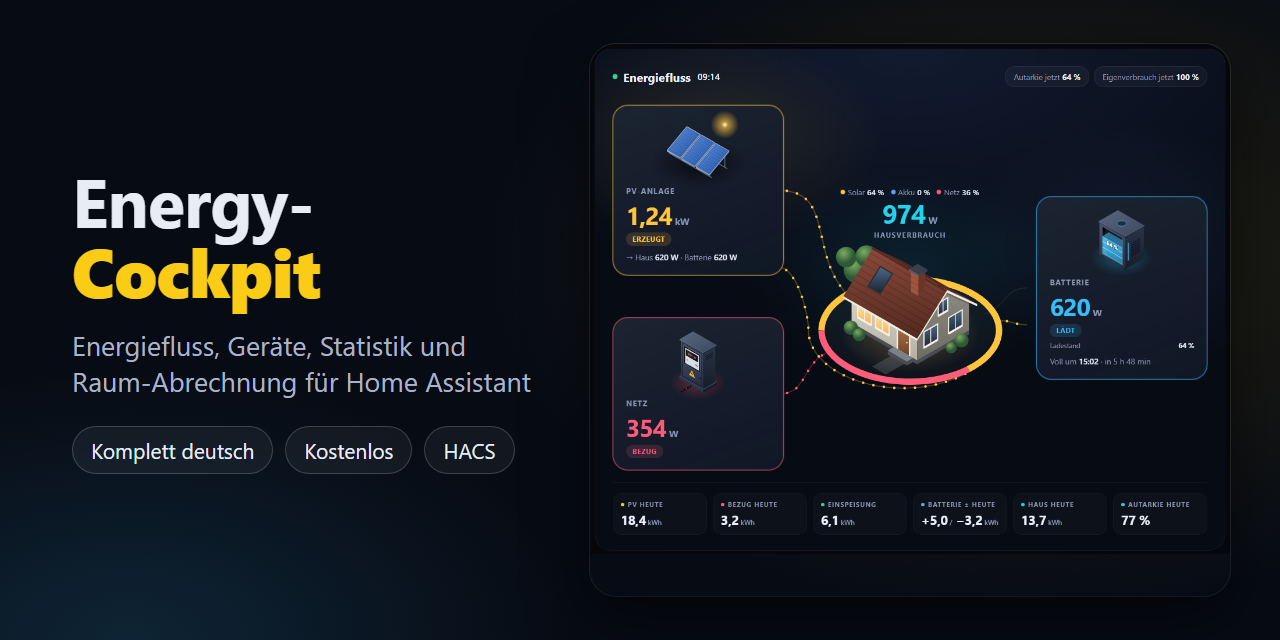
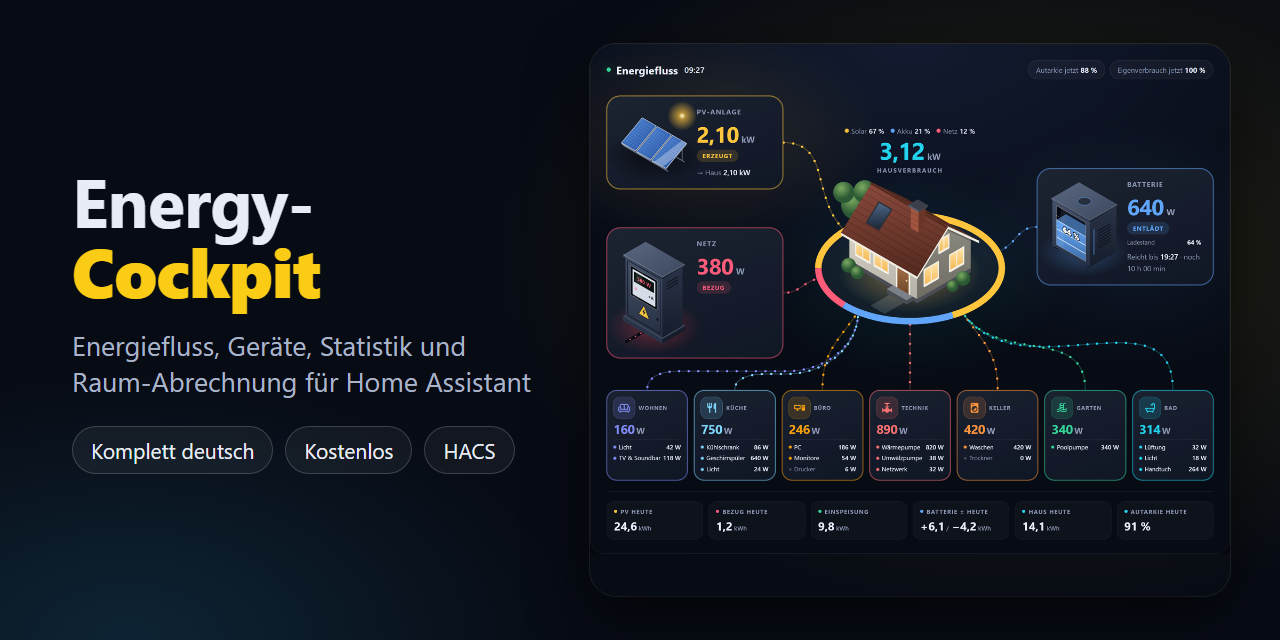
README: jeder Raum und jedes Geraet im Mittelpunkt, Titelbild mit ganzem Haus
Neuer Abschnitt und neue Bilder mit sieben Raeumen und ihren Geraeten.

diff --git a/test/flow-3d.html b/test/flow-3d.html
@@ -8,7 +8,9 @@
 const S=(v,u)=>({state:String(v),attributes:{unit_of_measurement:u||'W'},last_updated:'x'});
 const hassFor=(o)=>({states:Object.assign({'sensor.pv':S(1240),'sensor.grid':S(354),'sensor.bat':S(620),'sensor.bat2':S(-150),'sensor.soc':S(64,'%'),'sensor.soc2':S(22,'%'),'sensor.ch':S(96),'sensor.dis':S(0),'sensor.out':S(0),'sensor.s0':S(4,'%'),'sensor.s1':S(22,'%'),'sensor.s1w':S(400),'sensor.s2w':S(467),'sensor.s3w':S(213),'sensor.s4w':S(160),'sensor.wp':S(600),'sensor.pv2':S(300)},o||{}),language:'de',locale:{language:'de'},config:{currency:'EUR'},callApi:async()=>[],callWS:async()=>({})});
 const base={pv:{entity:'sensor.pv'},grid:{entity:'sensor.grid'},battery:{power:'sensor.bat',soc:'sensor.soc',capacity_kwh:10},style:'3d'};
+const HAUS={"sensor.pv": 2100, "sensor.grid": 380, "sensor.bat": -640, "sensor.soc": 64, "sensor.h0_0": 42, "sensor.h0_1": 118, "sensor.h1_0": 86, "sensor.h1_1": 640, "sensor.h1_2": 24, "sensor.h2_0": 186, "sensor.h2_1": 54, "sensor.h2_2": 6, "sensor.h3_0": 820, "sensor.h3_1": 38, "sensor.h3_2": 32, "sensor.h4_0": 420, "sensor.h4_1": 0, "sensor.h5_0": 340, "sensor.h6_0": 32, "sensor.h6_1": 18, "sensor.h6_2": 264};
 const cases={
+  haus:{...base,hide_rest:true,consumer_groups:[{"name": "Wohnen", "icon": "mdi:sofa-outline", "color": "#818cf8", "items": [{"name": "Licht", "entity": "sensor.h0_0"}, {"name": "TV & Soundbar", "entity": "sensor.h0_1"}]}, {"name": "Küche", "icon": "mdi:silverware-fork-knife", "color": "#7dd3fc", "items": [{"name": "Kühlschrank", "entity": "sensor.h1_0"}, {"name": "Geschirrspüler", "entity": "sensor.h1_1"}, {"name": "Licht", "entity": "sensor.h1_2"}]}, {"name": "Büro", "icon": "mdi:desktop-tower-monitor", "color": "#f59e0b", "items": [{"name": "PC", "entity": "sensor.h2_0"}, {"name": "Monitore", "entity": "sensor.h2_1"}, {"name": "Drucker", "entity": "sensor.h2_2"}]}, {"name": "Technik", "icon": "mdi:pipe-valve", "color": "#f87171", "items": [{"name": "Wärmepumpe", "entity": "sensor.h3_0"}, {"name": "Umwälzpumpe", "entity": "sensor.h3_1"}, {"name": "Netzwerk", "entity": "sensor.h3_2"}]}, {"name": "Keller", "icon": "mdi:washing-machine", "color": "#fb923c", "items": [{"name": "Waschen", "entity": "sensor.h4_0"}, {"name": "Trockner", "entity": "sensor.h4_1"}]}, {"name": "Garten", "icon": "mdi:pool", "color": "#34d399", "items": [{"name": "Poolpumpe", "entity": "sensor.h5_0"}]}, {"name": "Bad", "icon": "mdi:shower", "color": "#22d3ee", "items": [{"name": "Lüftung", "entity": "sensor.h6_0"}, {"name": "Licht", "entity": "sensor.h6_1"}, {"name": "Handtuch", "entity": "sensor.h6_2"}]}]},
   normal:base,
   strings:{...base,pv:{entity:'sensor.pv',strings:[{entity:'sensor.s1w',name:'S1'},{entity:'sensor.s2w',name:'S2'},{entity:'sensor.s3w',name:'S3'},{entity:'sensor.s4w',name:'S4'}]}},
   flach:{...base,house_style:'flach'},
@@ -131,5 +133,5 @@ async function run(){
 }
 const P=new URLSearchParams(location.search);
 if(P.get('test')){document.getElementById('host').style.height='0';run();}
-else{if(P.get('w'))document.getElementById('host').style.maxWidth=P.get('w')+'px';const c={...cases[P.get('case')||'normal']};if(P.get('kurz'))c.compact='immer';const t=P.get('theme');if(t)c.theme=t;if(!P.get('demo'))mount(c,hassFor());else{/* Bilder fuer die Doku: auch die Tageswerte gefuellt */const D=(v)=>S(v,'kWh');c.pv={...c.pv,daily:'sensor.dpv'};c.grid={...c.grid,daily_import:'sensor.dimp',daily_export:'sensor.dexp'};c.battery={...c.battery,daily_charge:'sensor.dchg',daily_discharge:'sensor.ddis'};mount(c,hassFor({'sensor.dpv':D(18.4),'sensor.dimp':D(3.2),'sensor.dexp':D(6.1),'sensor.dchg':D(5),'sensor.ddis':D(3.2)}));}}
+else{if(P.get('w'))document.getElementById('host').style.maxWidth=P.get('w')+'px';const c={...cases[P.get('case')||'normal']};if(P.get('kurz'))c.compact='immer';const t=P.get('theme');if(t)c.theme=t;if(!P.get('demo'))mount(c,hassFor());else{/* Bilder fuer die Doku: auch die Tageswerte gefuellt */const D=(v)=>S(v,'kWh');c.pv={...c.pv,daily:'sensor.dpv'};c.grid={...c.grid,daily_import:'sensor.dimp',daily_export:'sensor.dexp'};c.battery={...c.battery,daily_charge:'sensor.dchg',daily_discharge:'sensor.ddis'};const hs=P.get('case')==='haus'?Object.fromEntries(Object.entries(HAUS).map(([k,v])=>[k,S(v,k==='sensor.soc'?'%':'W')])):{};if(P.get('klassisch'))delete c.style;if(hs['sensor.pv'])Object.assign(hs,{'sensor.dpv':D(24.6),'sensor.dimp':D(1.2),'sensor.dexp':D(9.8),'sensor.dchg':D(6.1),'sensor.ddis':D(4.2)});mount(c,hassFor({'sensor.dpv':D(18.4),'sensor.dimp':D(3.2),'sensor.dexp':D(6.1),'sensor.dchg':D(5),'sensor.ddis':D(3.2),...hs}));}}
 </script></body></html>

diff --git a/tools/social-preview.html b/tools/social-preview.html
@@ -11,4 +11,4 @@ p{font-size:27px;line-height:1.35;margin:0 0 26px;color:#aab4c8}
 .img img{width:640px;display:block}
 </style></head><body><div class="bg"></div>
 <div class="l"><h1>Energy-<b>Cockpit</b></h1><p>Energiefluss, Geräte, Statistik und Raum-Abrechnung für Home Assistant</p><div class="tags"><span>Komplett deutsch</span><span>Kostenlos</span><span>HACS</span></div></div>
-<div class="img"><img src="../docs/img/flow-3d.png"></div></body></html>
+<div class="img"><img src="../docs/img/flow-3d-haus.png"></div></body></html>

diff --git a/README.md b/README.md
@@ -17,7 +17,7 @@ Komplett deutsch und kostenlos. Ein Assistent richtet alles ein, du brauchst kei
 
 <sub>Alle Bilder zeigen Beispieldaten.</sub>
 
-**[Die vier Karten](#die-vier-karten)** · **[Installation](#installation)** · **[3D-Ansicht](#3d-ansicht)** · **[Kosten je Verbraucher](#kosten-je-verbraucher)** · **[Handy und Tablet](#handy-und-tablet-eine-karte-zwei-ansichten)** · **[Anleitungen](#anleitungen)** · **[English](#english)**
+**[Jedes Gerät](#jeder-raum-jedes-gerät-live)** · **[Die vier Karten](#die-vier-karten)** · **[Installation](#installation)** · **[3D-Ansicht](#3d-ansicht)** · **[Kosten je Verbraucher](#kosten-je-verbraucher)** · **[Handy und Tablet](#handy-und-tablet-eine-karte-zwei-ansichten)** · **[Anleitungen](#anleitungen)** · **[English](#english)**
 
 </div>
 
@@ -25,11 +25,17 @@ Komplett deutsch und kostenlos. Ein Assistent richtet alles ein, du brauchst kei
 
 <table>
 <tr>
-<td width="33%" valign="top"><b>Sofort verstanden</b><br>Du siehst, woher dein Strom gerade kommt und wohin er fließt: Solar, Akku, Netz, Haus und jedes Gerät.</td>
+<td width="33%" valign="top"><b>Jeder Raum, jedes Gerät</b><br>Nicht nur Solar, Netz und Akku: Du siehst live, wohin dein Strom wirklich fließt, bis zum einzelnen Gerät.</td>
 <td width="33%" valign="top"><b>In Minuten eingerichtet</b><br>Der Assistent schlägt passende Sensoren vor und zeigt ihre aktuellen Werte. Feste Gerätenamen gibt es nicht.</td>
 <td width="33%" valign="top"><b>Passt zu deiner Anlage</b><br>Balkonkraftwerk, mehrere Speicher, Hybrid-Wechselrichter, Handy oder Wandtablet: Vieles davon kam direkt von Nutzern.</td>
 </tr>
 </table>
+
+## Jeder Raum, jedes Gerät, live
+
+Die Energiefluss-Karte hört nicht beim Hausverbrauch auf. Fasse Geräte zu Räumen oder Gruppen zusammen: Jede bekommt ihre eigene Linie, die aktuelle Leistung und die Liste ihrer Geräte. Was keiner Gruppe zugeordnet ist, steht auf Wunsch als "Nicht erfasst" daneben. Ein Tipp auf ein Gerät zeigt seinen Verlauf. Das geht in der klassischen Ansicht, in 3D und auf dem Handy.
+
+![Energiefluss mit sieben Räumen und ihren Geräten](docs/img/flow-haus.png)
 
 ## Die vier Karten
 
